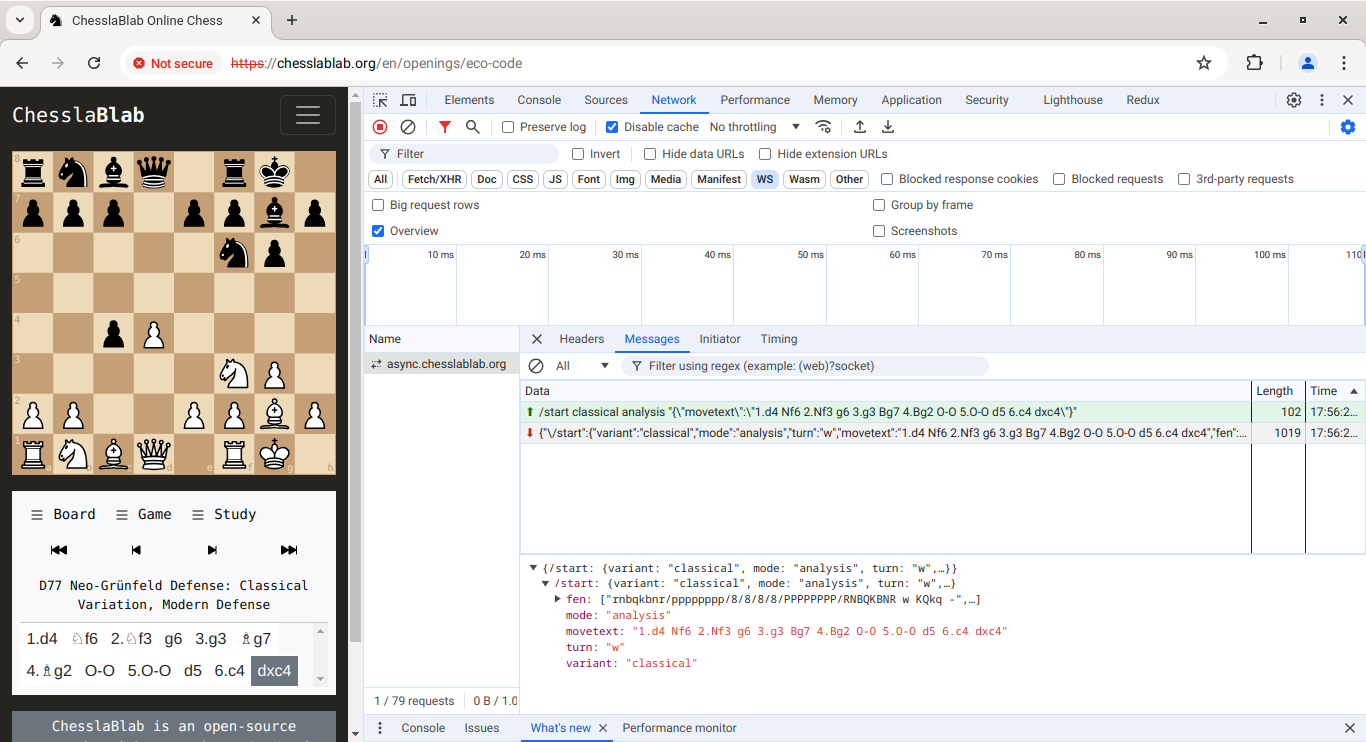
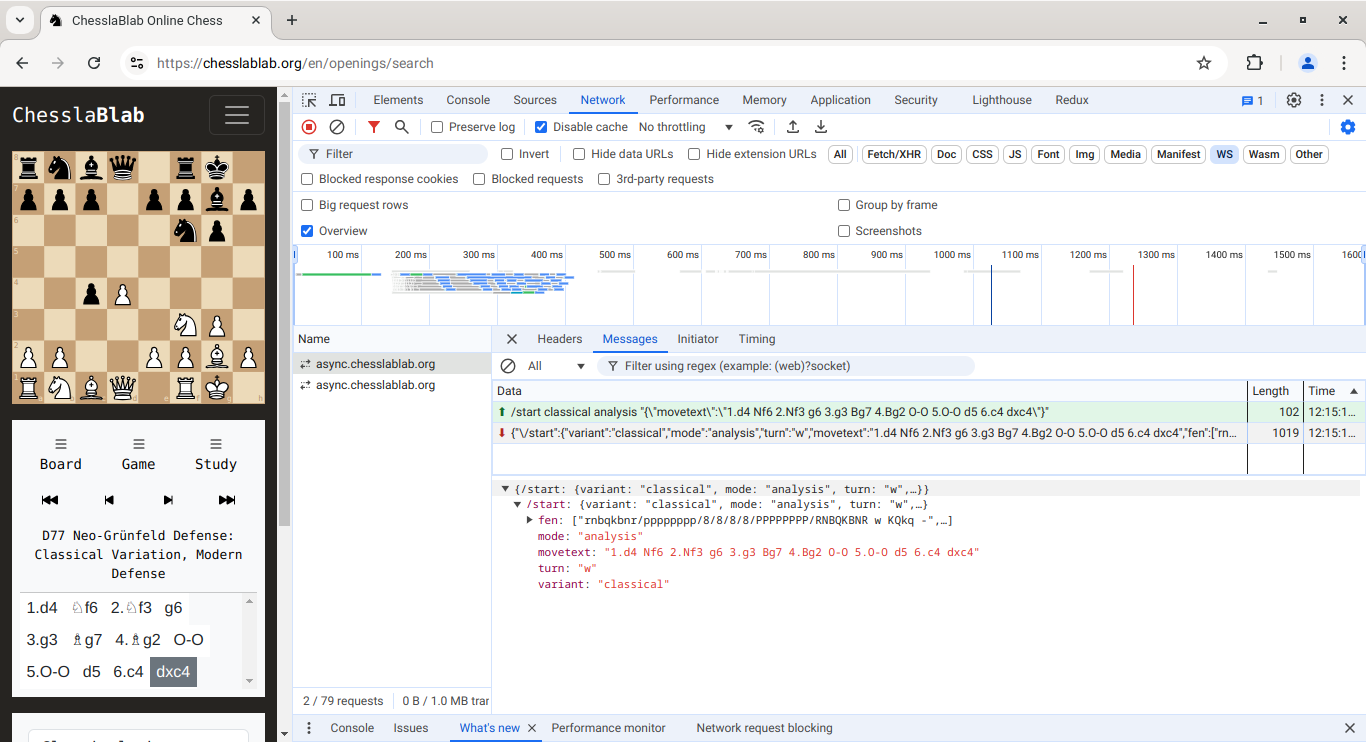
Deployed 7f52563 with MkDocs version: 1.5.3

diff --git a/websocket-connection/index.html b/websocket-connection/index.html
@@ -103,13 +103,13 @@
 </ul>
 <p>The WebSocket ESM modules are implemented based on this same separation of concerns and abstraction:</p>
 <ul>
-<li><a href="https://github.com/chesslablab/website/blob/main/assets/js/AnalysisWebSocket.js">assets/js/AnalysisWebSocket.js</a></li>
-<li><a href="https://github.com/chesslablab/website/blob/main/assets/js/PlayWebSocket.js">assets/js/PlayWebSocket.js</a></li>
-<li><a href="https://github.com/chesslablab/website/blob/main/assets/js/StockfishWebSocket.js">assets/js/StockfishWebSocket.js</a></li>
+<li><a href="https://github.com/chesslablab/website/blob/main/assets/js/websockets/game/AnalysisWebSocket.js">assets/js/websockets/game/AnalysisWebSocket.js</a></li>
+<li><a href="https://github.com/chesslablab/website/blob/main/assets/js/websockets/game/PlayWebSocket.js">assets/js/websockets/game/PlayWebSocket.js</a></li>
+<li><a href="https://github.com/chesslablab/website/blob/main/assets/js/websockets/game/StockfishWebSocket.js">assets/js/websockets/game/StockfishWebSocket.js</a></li>
 </ul>
 <p>Let's say you wanted to study a particular chess opening, then a chess game in <code>analysis</code> mode is to be started.</p>
 <p><img alt="Figure 1" src="https://raw.githubusercontent.com/chesslablab/website/main/docs/websocket-connection_01.png" /></p>
-<p><strong>Figure 1</strong>. Click on <strong>Openings &gt; ECO Code</strong> and select "D77 Neo-Grünfeld Defense: Classical Variation, Modern Defense"</p>
+<p><strong>Figure 1</strong>. Click on <strong>Openings &gt; Search</strong> and select "D77 Neo-Grünfeld Defense: Classical Variation, Modern Defense"</p>
 <p>Data:</p>
 <pre><code class="language-text">/start classical analysis &quot;{\&quot;movetext\&quot;:\&quot;1.d4 Nf6 2.Nf3 g6 3.g3 Bg7 4.Bg2 O-O 5.O-O d5 6.c4 dxc4\&quot;}&quot;
 </code></pre>
@@ -135,26 +135,33 @@
   ]
 }
 </code></pre>
-<p>The JavaScript code for this example can be found in the <a href="https://github.com/chesslablab/website/blob/main/assets/js/pages/openings/eco_code/index.js">assets/js/pages/openings/eco_code/index.js</a> file.</p>
-<pre><code class="language-js">import { openingsEcoCodeModal } from './OpeningsEcoCodeModal.js';
-import { sanWebSocket } from '../../../SanWebSocket.js';
-
-await sanWebSocket.connect();
+<p>The JavaScript code for this example can be found in the <a href="https://github.com/chesslablab/website/blob/main/assets/js/pages/openings/search/index.js">assets/js/pages/openings/search/index.js</a> file.</p>
+<pre><code class="language-js">import { openingsSearchModal } from './OpeningsSearchModal.js';
+import { binaryWebSocket } from '../../../websockets/binary/BinaryWebSocket.js';
+import { analysisWebSocket } from '../../../websockets/game/AnalysisWebSocket.js';
 
 sessionStorage.clear();
 
-openingsEcoCodeModal.props.modal.show();
+try {
+  await binaryWebSocket.connect();
+} catch {}
+
+try {
+  await analysisWebSocket.connect();
+} catch {}
+
+openingsSearchModal.props.modal.show();
 </code></pre>
 <p>The JavaScript code in the index.js file basically boils down to initialization. The business logic is implemented by a WebSocket ESM module. When the web browser retrieves the response from the WebSocket server, the ESM components are updated with the new data. In this particular case, the chessboard and the SAN panel are updated on chess opening selection.</p>
 <p>Remember, the structure of the <a href="https://github.com/chesslablab/website/tree/main/src/Controller/Pages">App\Controller\Pages</a> namespace is mirroring the structure of both the <a href="https://github.com/chesslablab/website/tree/main/templates/pages">templates/pages</a> folder and the <a href="https://github.com/chesslablab/website/tree/main/assets/js/pages">assets/js/pages</a> folder. There is a <code>.twig.html</code> file and a <code>.js</code> file associated to each controller action. This naming convention allows developers to reduce memorization because given one file name, the name of the remaining two can be inferred.</p>
 <ul>
-<li><a href="https://github.com/chesslablab/website/blob/main/src/Controller/Pages/Openings/EcoCodeController.php">src/Controller/Pages/Openings/EcoCodeController.php</a></li>
-<li><a href="https://github.com/chesslablab/website/blob/main/templates/pages/openings/eco_code/index.html.twig">templates/pages/openings/eco_code/index.html.twig</a></li>
-<li><a href="https://github.com/chesslablab/website/blob/main/assets/js/pages/openings/eco_code/index.js">assets/js/pages/openings/eco_code/index.js</a></li>
+<li><a href="https://github.com/chesslablab/website/blob/main/src/Controller/Pages/Openings/SearchController.php">src/Controller/Pages/Openings/SearchController.php</a></li>
+<li><a href="https://github.com/chesslablab/website/blob/main/templates/pages/openings/search/index.html.twig">templates/pages/openings/search/index.html.twig</a></li>
+<li><a href="https://github.com/chesslablab/website/blob/main/assets/js/pages/openings/search/index.js">assets/js/pages/openings/search/index.js</a></li>
 </ul>
 <p>Similarly, if you wanted to study a chess position, then a FEN string needs to be started.</p>
 <p><img alt="Figure 2" src="https://raw.githubusercontent.com/chesslablab/website/main/docs/websocket-connection_02.png" /></p>
-<p><strong>Figure 2</strong>. Click on <strong>Learn &gt; Analysis Board</strong> and enter a classical chess position in FEN format.</p>
+<p><strong>Figure 2</strong>. Click on <strong>Learn &gt; Analysis Chessboard</strong> and enter a classical chess position in FEN format.</p>
 <p>Data:</p>
 <pre><code class="language-text">/start classical analysis &quot;{\&quot;fen\&quot;:\&quot;r2q1r1k/1b1nN2p/pp3pp1/8/Q7/PP5P/1BP2RPN/7K w - -\&quot;,\&quot;movetext\&quot;:\&quot;\&quot;}&quot;
 </code></pre>
@@ -169,14 +176,19 @@ openingsEcoCodeModal.props.modal.show();
 }
 </code></pre>
 <p>The JavaScript code for this example can be found in the <a href="https://github.com/chesslablab/website/blob/main/assets/js/pages/learn/analysis/index.js">assets/js/pages/learn/analysis/index.js</a> file.</p>
-<pre><code class="language-js">import { FEN } from '@chesslablab/chessboard';
-import { gameForm } from './GameForm.js';
-import { analysisWebSocket } from '../../../AnalysisWebSocket.js';
+<pre><code class="language-js">import { binaryWebSocket } from '../../../websockets/binary/BinaryWebSocket.js';
+import { analysisWebSocket } from '../../../websockets/game/AnalysisWebSocket.js';
 import * as mode from '../../../../mode.js';
 
-await analysisWebSocket.connect();
-
 sessionStorage.clear();
+
+try {
+  await binaryWebSocket.connect();
+} catch {}
+
+try {
+  await analysisWebSocket.connect();
+} catch {}
 
 analysisWebSocket.send(`/start classical ${mode.ANALYSIS}`);
 </code></pre>

diff --git a/index.html b/index.html
@@ -177,5 +177,5 @@ SUM:                            80            311             33           2858
 
 <!--
 MkDocs version : 1.5.3
-Build Date UTC : 2024-08-25 12:15:31.678316+00:00
+Build Date UTC : 2024-08-27 10:32:19.817362+00:00
 -->
